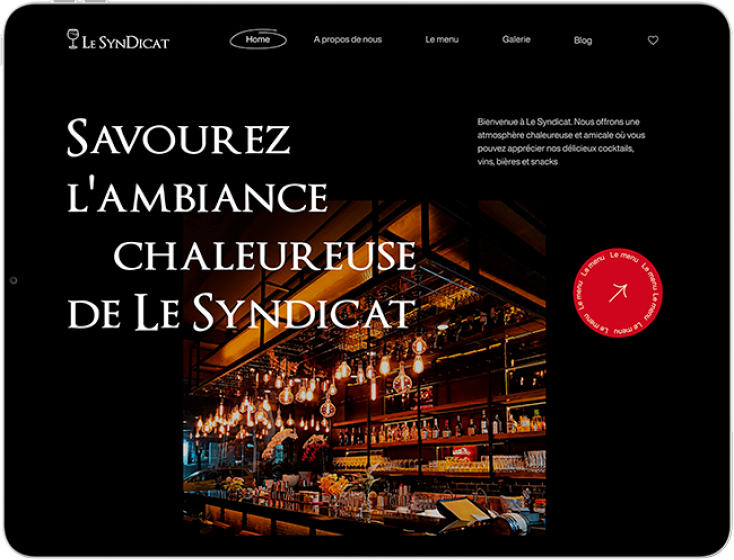
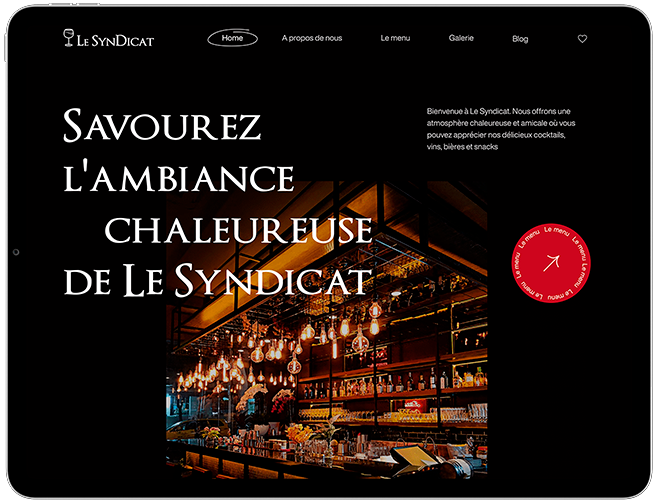
Changed images to original, fixed responsive

diff --git a/src/app/projects/page.tsx b/src/app/projects/page.tsx
@@ -17,18 +17,11 @@ export default function Projects() {
         }}
       >
         <Image
-          src="/images/projects-bg-1440.png"
+          src="/images/projects-bg.png"
           alt="Projects bg"
-          className={styles.imgSmall}
+          className={styles.img}
           priority={true}
-          fill={true}
-        />
-        <Image
-          src="/images/projects-bg-1920.png"
-          alt="Projects bg"
-          className={styles.imgLarge}
-          priority={true}
-          fill={true}
+          fill
         />
       </div>
       <div className={styles.contentImgWrapper}>
@@ -43,7 +36,7 @@ export default function Projects() {
         >
           <div
             style={{
-              bottom: '100px',
+              bottom: '40px',
               left: '120px',
               position: 'absolute',
               zIndex: 2,
@@ -58,7 +51,7 @@ export default function Projects() {
           </div>
           <div
             style={{
-              bottom: '90px',
+              bottom: '40px',
               right: '120px',
               position: 'absolute',
               display: 'flex',

diff --git a/src/app/about/page.tsx b/src/app/about/page.tsx
@@ -17,25 +17,17 @@ export default function About() {
         style={{
           width: '100%',
           height: '100vh',
-          // height: "770px",
           position: 'absolute',
           top: '0',
           left: '0',
         }}
       >
         <Image
-          src="/images/about-bg-1440.png"
+          src="/images/about-bg.png"
           alt="About bg"
-          className={styles.imgSmall}
+          className={styles.img}
           priority={true}
-          fill={true}
-        />
-        <Image
-          src="/images/about-bg-1920_main.png"
-          alt="About bg"
-          className={styles.imgLarge}
-          priority={true}
-          fill={true}
+          fill
         />
       </div>
       <div className={styles.contentImgWrapper}>

diff --git a/src/app/services/page.tsx b/src/app/services/page.tsx
@@ -18,18 +18,11 @@ export default function Services() {
         }}
       >
         <Image
-          src="/images/services-bg-1440.png"
+          src="/images/services-bg.png"
           alt="Projects bg"
-          className={styles.imgSmall}
+          className={styles.img}
           priority={true}
-          fill={true}
-        />
-        <Image
-          src="/images/services-bg-1920.png"
-          alt="Projects bg"
-          className={styles.imgLarge}
-          priority={true}
-          fill={true}
+          fill
         />
       </div>
       <div className={styles.contentImgWrapper}>

diff --git a/src/app/page.tsx b/src/app/page.tsx
@@ -10,20 +10,11 @@ export default function Home() {
     <main>
       <DigitalMarketingSection />
       <BlueSectionWrapper>
-        {/* <div
-        style={{
-          background: 'var(--blue)',
-          borderRadius: '50px',
-          padding: '120px',
-          position: 'relative',
-        }}
-      > */}
         <div style={{ maxWidth: '1200px', margin: '0 auto' }}>
           <ServiceSpectrumSection />
           <AdvatagesSection />
         </div>
       </BlueSectionWrapper>
-      {/* </div> */}
       <ProjectPortfolioSection />
       <TeamSection />
     </main>

diff --git a/src/app/contacts/page.tsx b/src/app/contacts/page.tsx
@@ -21,17 +21,10 @@ export default function Contacts() {
         <Image
           src="/images/contacts-bg.png"
           alt="Projects bg"
-          className={styles.imgSmall}
+          className={styles.img}
           priority={true}
-          fill={true}
+          fill
         />
-        {/* <Image
-          src="/images/services-bg-1920.png"
-          alt="Projects bg"
-          className={styles.imgLarge}
-          priority={true}
-          fill={true}
-        /> */}
       </div>
       <div className={styles.contentImgWrapper}>
         <div

diff --git a/src/app/projects/page.module.css b/src/app/projects/page.module.css
@@ -1,10 +1,6 @@
-.imgLarge {
-  display: none;
-  border-radius: 0 0 50px 50px;
-}
-
-.imgSmall {
+.img {
   object-fit: cover;
+  object-position: center;
   border-radius: 0 0 50px 50px;
 }
 
@@ -43,7 +39,7 @@
   line-height: 22px;
 }
 
-@media screen and (min-width: 1920px) {
+/* @media screen and (min-width: 1920px) {
   .imgSmall {
     display: none;
   }
@@ -52,4 +48,4 @@
     object-fit: cover;
     display: block;
   }
-}
+} */

diff --git a/src/app/services/page.module.css b/src/app/services/page.module.css
@@ -1,8 +1,4 @@
-.imgLarge {
-  display: none;
-}
-
-.imgSmall {
+.img {
   object-fit: cover;
   border-radius: 0 0 50px 50px;
 }
@@ -38,16 +34,4 @@
   font-style: normal;
   font-weight: var(--text-main-font-weight);
   line-height: 22px;
-}
-
-@media screen and (min-width: 1920px) {
-  .imgSmall {
-    display: none;
-  }
-
-  .imgLarge {
-    display: block;
-    object-fit: cover;
-    border-radius: 0 0 50px 50px;
-  }
 }

diff --git a/src/app/about/page.module.css b/src/app/about/page.module.css
@@ -1,9 +1,6 @@
-.imgLarge {
-  display: none;
-}
-
-.imgSmall {
+.img {
   object-fit: cover;
+  object-position: top;
 }
 
 .shadow {
@@ -36,15 +33,4 @@
   font-style: normal;
   font-weight: var(--text-main-font-weight);
   line-height: 22px;
-}
-
-@media screen and (min-width: 1920px) {
-  .imgSmall {
-    display: none;
-  }
-
-  .imgLarge {
-    object-fit: cover;
-    display: block;
-  }
 }

diff --git a/src/app/contacts/page.module.css b/src/app/contacts/page.module.css
@@ -1,8 +1,4 @@
-/* .imgLarge {
-  display: none;
-} */
-
-.imgSmall {
+.img {
   object-fit: cover;
   border-radius: 0px 0px 50px 50px;
 }
@@ -41,14 +37,3 @@
   font-weight: var(--text-main-font-weight);
   line-height: 22px;
 }
-
-/* @media screen and (min-width: 1920px) {
-  .imgSmall {
-    display: none;
-  }
-
-  .imgLarge {
-    display: block;
-    object-fit: cover;
-  }
-} */

diff --git a/src/app/projects/[slug]/page.tsx b/src/app/projects/[slug]/page.tsx
@@ -46,7 +46,6 @@ export default function Project({ params }: { params: { slug: string } }) {
         <Image
           src={mainImage}
           alt="Case bg"
-          className={styles.img}
           priority={true}
           width={734}
           height={560}
